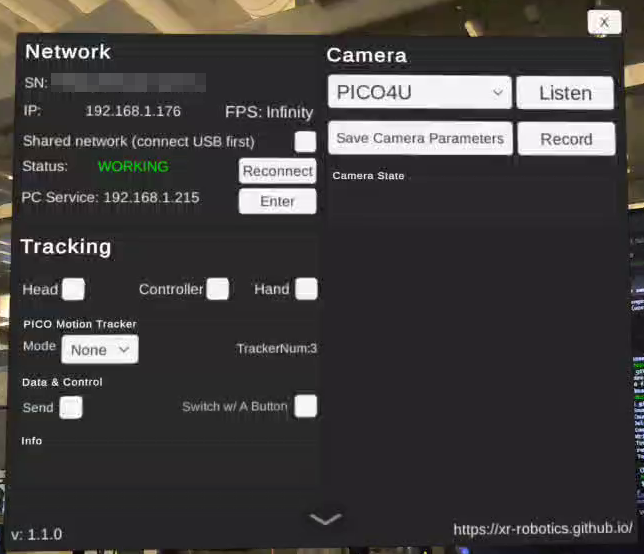
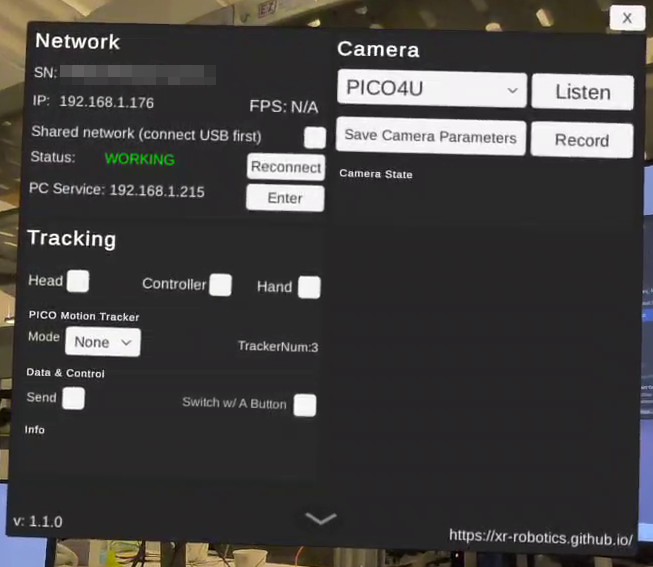
Fix FPS, layout UI

diff --git a/Assets/Scripts/UI/FPSDisplay.cs b/Assets/Scripts/UI/FPSDisplay.cs
@@ -21,6 +21,14 @@ public class FPSDisplay : MonoBehaviour
         deltaTime += (unDeltaTime - deltaTime) * 0.1f;
         //   Debug.Log("deltaTime:" + deltaTime);
     }
+    
+    public static void Reset()
+    {
+        if (deltaTime > 0)
+        {
+            deltaTime = 0f;   
+        }
+    }
 
     private void Update()
     {
@@ -33,7 +41,7 @@ public class FPSDisplay : MonoBehaviour
                 if (deltaTime > 0)
                 {
                     var fps = 1000.0f / deltaTime;
-                    text = $"{fps:F1}";
+                    text = $"FPS: {fps:F1}";
                 }
 
                 fpsText.text = text;

diff --git a/Assets/Scripts/UI/UIOperate.cs b/Assets/Scripts/UI/UIOperate.cs
@@ -309,6 +309,11 @@ public class UIOperate : MonoBehaviour
     private void OnSendTog(bool on)
     {
         TcpHandler.SendTrackingData = on;
+        // Reset FPS
+        if(!on)
+        {
+            FPSDisplay.Reset();
+        }
     }
 
     private void OnHighAccuracy(bool on)
